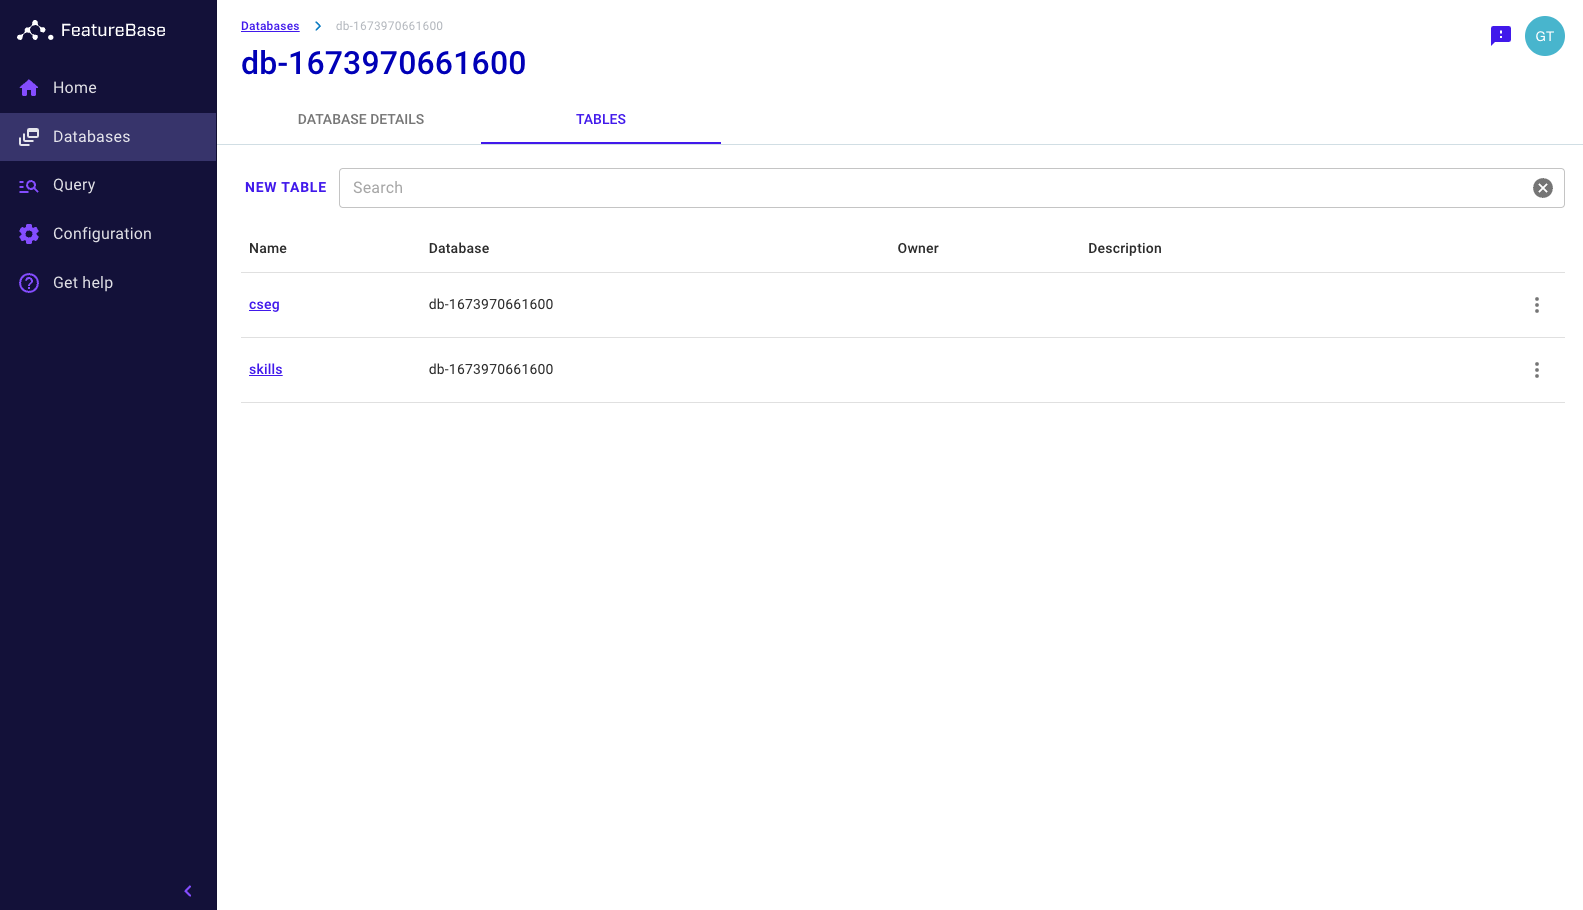
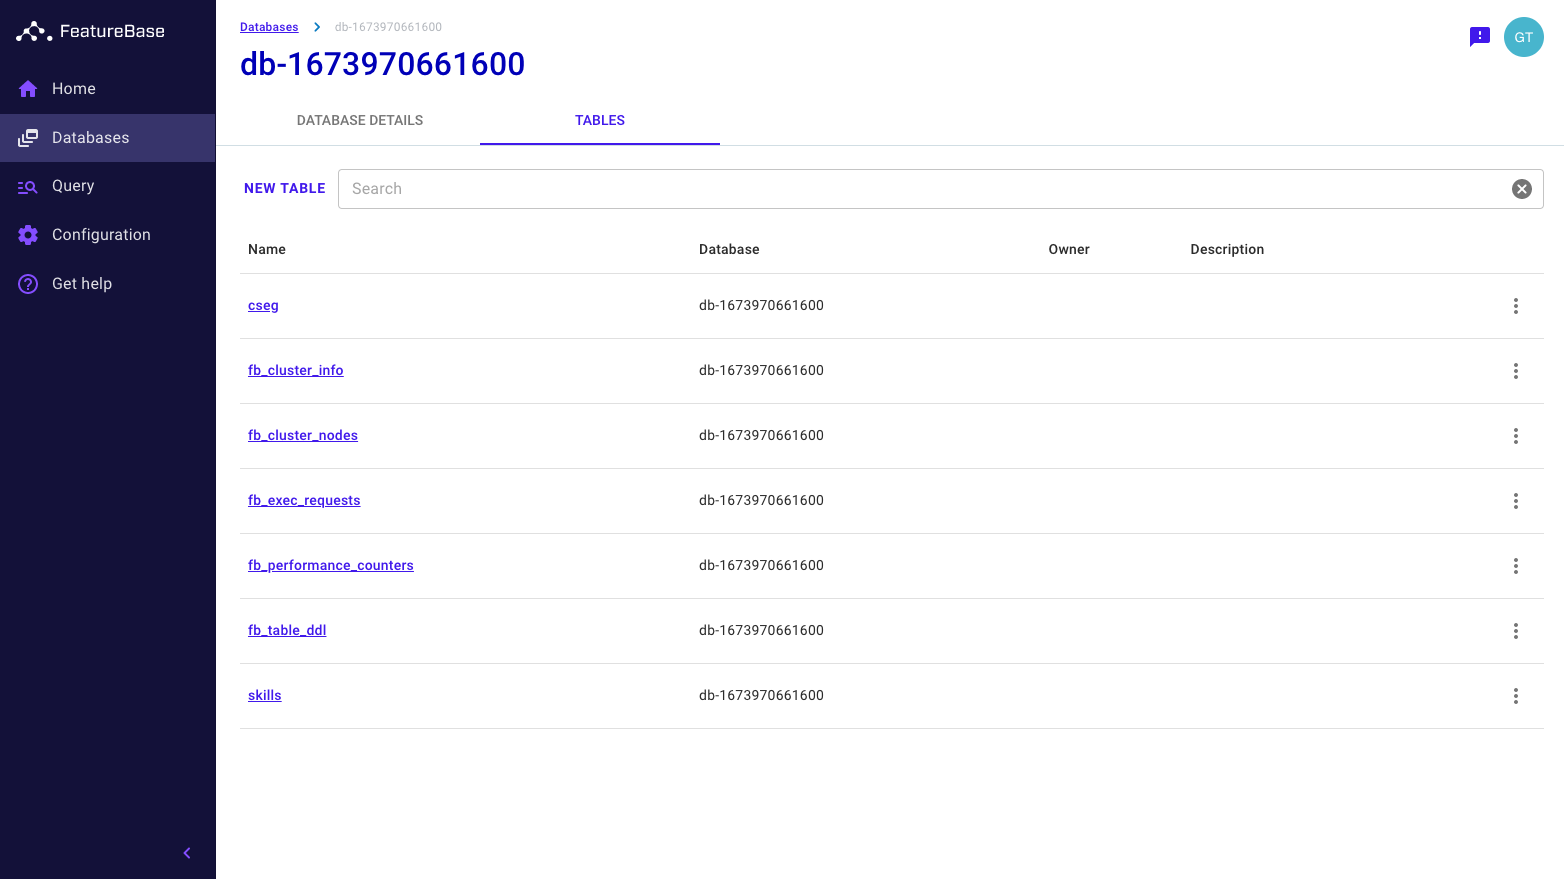
incorporating feedback from de interview (#39)

diff --git a/docs/cloud/cloud-quickstart.md b/docs/cloud/cloud-quickstart.md
@@ -20,6 +20,7 @@ If you run into any roadblocks or have questions throughout the demonstration, p
 
 ## Sign-Up Overview
 
+If you have already signed up skip to [Configuring your environment](#configuring-your-environment)
 
 First, sign up for your [Free Trial](https://www.featurebase.com/cloud). Click the ```Start Cloud Trial``` button to navigate to the FeatureBase Cloud application and set up your account. You will be asked to enter your First Name, Last Name, Email address, and password. You will also be asked to read and agree to the [FeatureBase Terms of Service](https://www.featurebase.com/cloud-terms/).  
 
@@ -65,16 +66,14 @@ While the database is spinning up, you will see updates to "Status" on the ```Da
 ![Figure 7. New Database: Running](/assets/images/quick-start-guide/cloud/db_running.png)
 
 
-After about 10 minutes, the database status will progress to ```RUNNING```, and you can click on the database name and check the ```Tables``` tab to see the two tables that have been created in the database. One table is called ```cseg```, short for customer segmentation, and the other is called ```skills```. In the next section, we will perform a variety of common analytical queries on both datasets.
+After about 10 minutes, the database status will progress to ```RUNNING```, and you can click on the database name and check the ```Tables``` tab to see the two tables that have been created in the database. One table is called ```cseg```, short for customer segmentation, and the other is called ```skills```. Additionally, you will some system tables that contain information about your database. In the next section, we will perform a variety of common analytical queries on both datasets.
 
 ![Figure 8. Demo Data restored into tables from backup](/assets/images/quick-start-guide/cloud/tables_page_with_cseg.png)
 
 
 ### Data Exploration of Customer Segmentation Feature Table
 
-It’s always a good idea to understand what the dataset you’re working with contains before you get started. To do this, click on the ```Databases``` section in the application, click the database you just created, and click the ```Tables``` tab  to display the names of the tables in your database.
-
-Click on a table to show its contents. FeatureBase can ingest and represent a wide range of data types. Two that may not be familiar are the ```IDSET``` and ```STRINGSET``` types. ```SET``` types are multi-valued and allow FeatureBase to collapse traditional data models, like the star schema, by efficiently storing multiple values for a single column.
+It’s always a good idea to understand what the dataset you’re working with contains before you get started. Click on a table to show its contents. FeatureBase can ingest and represent a wide range of [data types](/docs/sql-guide/data-types/data-types-home). Two that may not be familiar are the [```IDSET```](/docs/sql-guide/data-types/data-type-idset/) and [```STRINGSET```](/docs/sql-guide/data-types/data-type-stringset/) types. ```SET``` types are multi-valued and allow FeatureBase to collapse traditional data models, like the star schema, by efficiently storing multiple values for a single column.
 
 ![Figure 9. Customer Segmentation (cseg) table details](/assets/images/quick-start-guide/cloud/cseg_cols.png)
 
@@ -86,6 +85,8 @@ Let’s start by running a simple SQL statement to extract 10 records to explore
 ```sql
 SELECT TOP(10) * FROM cseg;
 ```
+
+>Note that we support a subset of SQL but are working toward expanding our SQL coverage.
 
 Viewing this tabular output we can see each record contains several columns (attributes) and data types. Scroll left and right in the application to explore the full list of columns. For example, ```names``` and ```cities``` are captured in ```STRINGSET``` columns. ```income``` is captured in an ```INT``` column that will allow for range queries. You can also see that ```education``` is a ```STRINGSET``` column with multiple values in a single column.
 
@@ -135,8 +136,6 @@ Additionally, aggregations may include the ```AVERAGE``` argument.
 SELECT AVG(income) FROM cseg;
 ```
 
->Note that we don’t currently support full SQL, but are working toward expanding SQL functionality.
-
 ![Figure 14. AVERAGE Query](/assets/images/quick-start-guide/cloud/query_avg_income.png)
 
 
@@ -145,9 +144,9 @@ SELECT AVG(income) FROM cseg;
 <!--
 This needs to be updated back to INNER JOIN and SQL once SQL3 JOIN functionality is stable
 -->
-FeatureBase can merge at ingest and eliminate preprocessing in cases where performant **INNER JOIN**s are required. Data from two separate tables or sources can be merged into a single normalized table by matching on a unique key in each dataset. Since FeatureBase can execute queries very quickly, workflows requiring ```INNER JOIN```s can be simplified with FeatureBase by merging disparate datasets at ingest. In the following example, we are combining many of the queries in this guide and adding the ```INNER JOIN``` functionality using the `DISTINCT` function in FeatureBase's native language called [PQL](/docs/pql-guide/pql-home).
+FeatureBase supports **INNER JOIN** functionality, but it should be noted it's preferable to merge data from multiple separate tables or sources into a single normalized table. FeatureBase makes this possible and easy by defaulting to ingest process to use `UPSERT` behavior. Workflows requiring ```INNER JOIN```s in traditional databases can be simplified with FeatureBase by merging disparate datasets at ingest into a single table. 
 
-The ```INNER JOIN``` is facilitating a ```COUNT``` of records, or people, that are ```available for hire``` as indicated by having a ```STRING``` column true for ```available_for_hire``` located in the skills table, and having a ```STRING``` column true for ```Teaching```. In other words, we would like to ```COUNT``` the number of people who are teachers and also available for hire. The latency on this type of ```INNER JOIN``` at the billion records scale is still sub-second allowing for several interesting data models.
+If this cannot be avoided, FeatureBase does support **INNER JOIN**  between two tables. In the following example, we are combining many of the queries in this guide and adding the ```INNER JOIN``` functionality using the `DISTINCT` function in FeatureBase's native language called [PQL](/docs/pql-guide/pql-home). The ```INNER JOIN``` is facilitating a ```COUNT``` of records, or people, that are ```available for hire``` as indicated by having a ```STRING``` column true for ```available_for_hire``` located in the skills table, and having a ```STRING``` column true for ```Teaching```. In other words, we would like to ```COUNT``` the number of people who are teachers and also available for hire. The latency on this type of ```INNER JOIN``` at the billion records scale is still sub-second allowing for several interesting data models.
 
 ```sql
 [cseg]Count(Intersect(
@@ -216,6 +215,8 @@ If you have issues with your queries, please contact your FeatureBase representa
 We hope that this hands-on experience has further demonstrated the power of FeatureBase to power real-time analytics workflows at scale. While this example focused on a customer segmentation use case, the same type of workflows are often used in anomaly detection or business process optimization use cases and continues to perform as workloads grow to trillions of records. Additionally, FeatureBase excels at combining streaming and historical data in real-time, allowing you to analyze data as soon at is available in FeatureBase with no need for time-consuming preprocessing or preaggregation. From here, partner with your FeatureBase representative to better understand how FeatureBase will work for your organization’s specific needs. If you'd like to continue exploring, you can start learning how to:
 
 * [INGEST DATA OVERVIEW](/docs/cloud/cloud-ingest/cloud-ingest-manage)
+* [BULK INSERT CSV Example](/docs/sql-guide/statements/statement-insert-bulk-csv-example/)
+* [Learn about BULK INSERT](/docs/sql-guide/statements/statement-insert-bulk/)
 
 ## Queries
 
